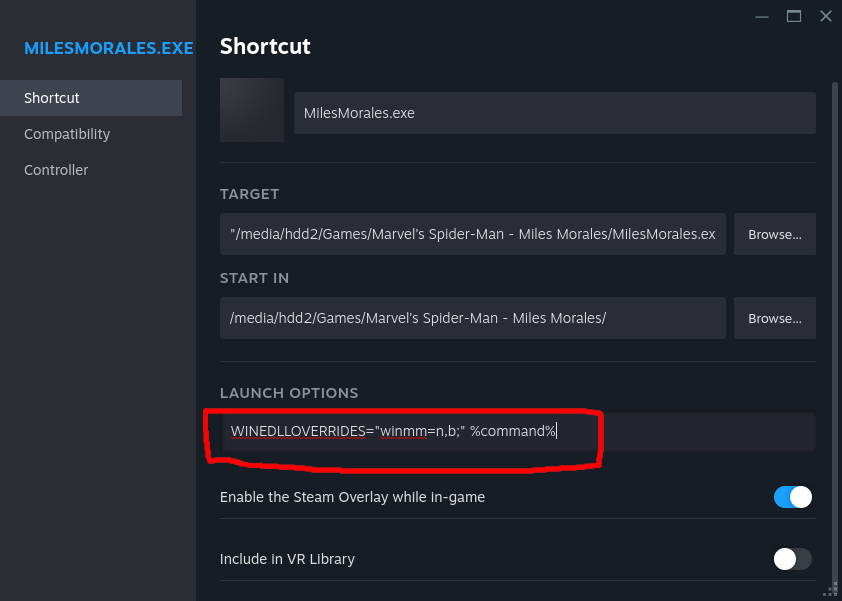
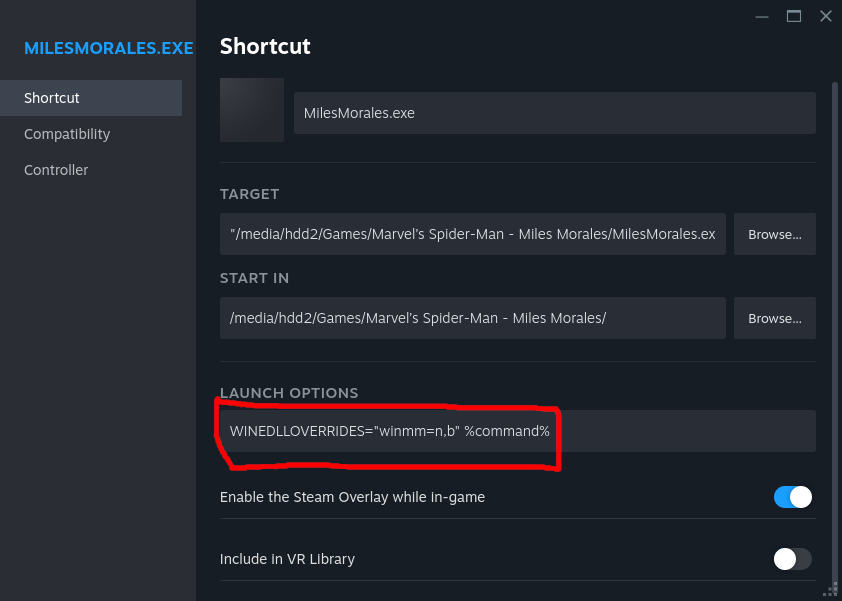
typo

Changed region(s): [[0.2162, 0.6589, 0.7411, 0.8087]]

diff --git a/content/posts/2024-Games/marvel-spider-man-miles-morales.md b/content/posts/2024-Games/marvel-spider-man-miles-morales.md
@@ -81,7 +81,7 @@ Right click MilesMorales.exe and click properties
 
 ![](/images/2024-Games/marvel-spider-man-miles-morales/5.png)
 
-Add in steam game argements `WINEDLLOVERRIDES="winmm=n,b;" %command%` for fsr 3 mod to work
+Add in steam game argements `WINEDLLOVERRIDES="winmm=n,b" %command%` for fsr 3 mod to work
 
 ![](/images/2024-Games/marvel-spider-man-miles-morales/6.png)
 
